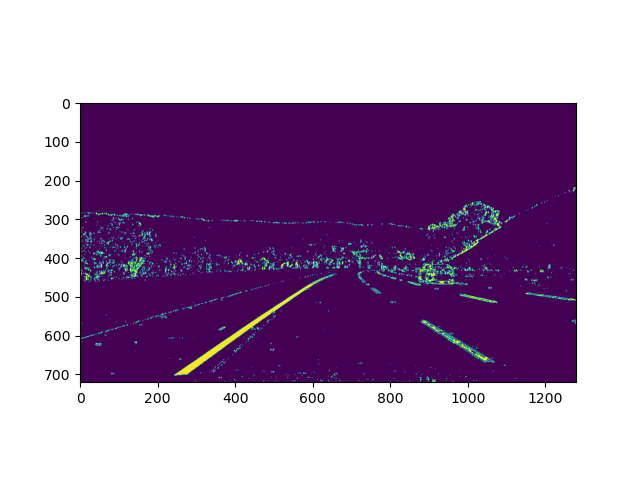
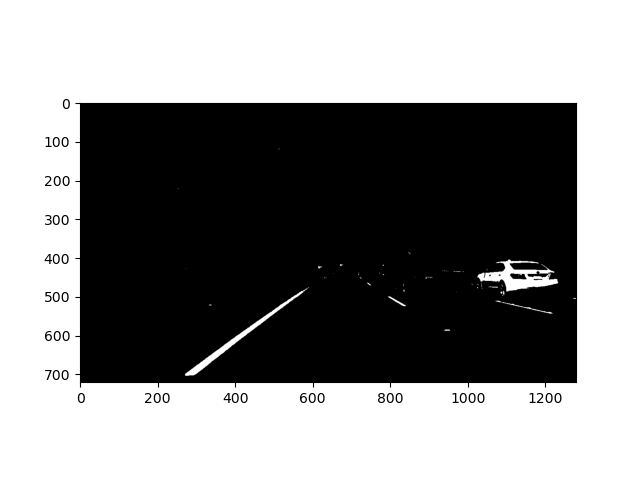
updated the writeup_template.md file according to latest code. Also updated of the example pictures.

diff --git a/writeup_template.md b/writeup_template.md
@@ -43,7 +43,7 @@ You're reading it!
 
 #### 1. Briefly state how you computed the camera matrix and distortion coefficients. Provide an example of a distortion corrected calibration image.
 
-The code for this step is contained in the function `cal_chessBoard()` (line10) & `cal_undistort begins()`(line41) in 1st code cell of the Jupyter notebook located in "./advanced_lane_findinge.ipynb".  
+The code for this step is contained in the function `cal_chessBoard()` (line10) & `cal_undistort begins()`(line45) in 1st code cell of the Jupyter notebook located in "./advanced_lane_findinge.ipynb".  
 
 `objp` is the object points inn real world, and here is asumming z=0 for all points. 
 all `objp` are appended into `objpoints` for all chessboard images.
@@ -64,35 +64,40 @@ To demonstrate this step, I will describe how I apply the distortion correction 
 
 #### 2. Describe how (and identify where in your code) you used color transforms, gradients or other methods to create a thresholded binary image.  Provide an example of a binary image result.
 
-I used a combination of color and gradient thresholds to generate a binary image (thresholding steps at lines 64 through 73 in cell1 of `edge_detection()`).  Here's an example of my output for this step.  (note: this is not actually from one of the test images)
+I used a combination of rgb color(r channel) and lab color(l,b channel) to generate a binary image (thresholding steps at lines 57 through 123 in cell1 of `edge_detection()`).  Here's an example of my output for this step.  (note: this is not actually from one of the test images)
 
 ![alt text][image3]
 
 #### 3. Describe how (and identify where in your code) you performed a perspective transform and provide an example of a transformed image.
 
-The code for my perspective transform includes a function called `corners_unwarp()`, which appears in lines 47 through 51 in `corners_unwarp()` in cell1 in the Jupyter notebook.  The `corners_unwarp()` function takes as inputs an image (`img`), as well as source (`src`) and destination (`dst`) points.  
+The code for my perspective transform includes a function called `corners_unwarp()`, which appears in lines 51 through 55 in `corners_unwarp()` in cell1 in the Jupyter notebook.  The `corners_unwarp()` function takes as inputs an image (`img`), as well as source (`src`) and destination (`dst`) points.  
 
 src and dst points are chosed manually as below:
-src = np.float32([[550,450],[730,450],[0,720],[1280,720]])
-dst = np.float32([[-80,0],[1280,0],[140,720],[1060,720]]) 
+ssrc = np.float32([[560,470],[720,470],[0,720],[1280,720]])
+dst = np.float32([[250,0],[1030,0],[140,720],[1140,720]])
 
 I verified that my perspective transform was working as expected by drawing the `src` and `dst` points onto a test image and its warped counterpart to verify that the lines appear parallel in the warped image.
 
 ![alt text][image4]
 
 #### 4. Describe how (and identify where in your code) you identified lane-line pixels and fit their positions with a polynomial?
-`fit_polynomial()`(from line173) to use sliding widow method and `search_around_poly()`(from line217) to use serching around fit line method to define the current fit curve lines.
-the fitted lines are drawed onto the warped images as below:
+`fit_polynomial()`(from line 224) to use sliding widow method: 
+there will be an offset defined according to the direction where the curve bend to, so that can cover some high curve change rate.
+
+And `search_around_poly()`(from line 268) to use serching around fit line method to define the current fit curve lines.
+the margin can be adjusted with offset(wider at top side, and narrower at bottom side accodeing to the curve/radius degree change rate) to cover some high curve change rate.
+
+The fitted lines are drawed onto the warped images as below:
 
 ![alt text][image5]
 
 #### 5. Describe how (and identify where in your code) you calculated the radius of curvature of the lane and the position of the vehicle with respect to center.
 
-`measure_curvature_real()` (from line 238 )to calculate the curvature of the both lane lines at the bottom of the image frame.
+`measure_curvature_real()` (from line 296 )to calculate the curvature of the both lane lines at the bottom of the image frame.
 
 #### 6. Provide an example image of your result plotted back down onto the road such that the lane area is identified clearly.
 
-`draw_lanes()` (from line250) is to the detected lane lines and lane lane and warp back into the original image and showed as below:
+`draw_lanes()` (from line 308) is to the detected lane lines and lane lane and warp back into the original image and showed as below:
 
 ![alt text][image6]
 
@@ -110,5 +115,8 @@ Here's a [link to my video result](./project_video_out.mp4)
 
 #### 1. Briefly discuss any problems / issues you faced in your implementation of this project.  Where will your pipeline likely fail?  What could you do to make it more robust?
 
-Although I did some filtering to prevent too much noise to affect the precision of the lane lines detected, but still some situations such as at the BRIDGE (the color is obviously different from normal high way sufaces.) there will be fluctuations of the lane lines there.
-maybe it can be improved by tuning the threshold and other position parameters and filtering parameters, or to use some other algorism.
+Although I did some filtering to prevent too much noise to affect the precision of the lane lines detected, but still some small fluctation exist during the way. Not smooth enough as expected. 
+The curvature is not 1km, but similar to 2 km, maybe the parasmeter is not correct enough.
+The curvature change rate will be very high when the line is close to straight, so i think it is better to use a curve angle change rate (already used in my code).
+It is a little hard to find a good src and dst points for the warper.
+And still a lot modification needed to cover challenge_video.mp4 and harder_challenge_video.mp4.
